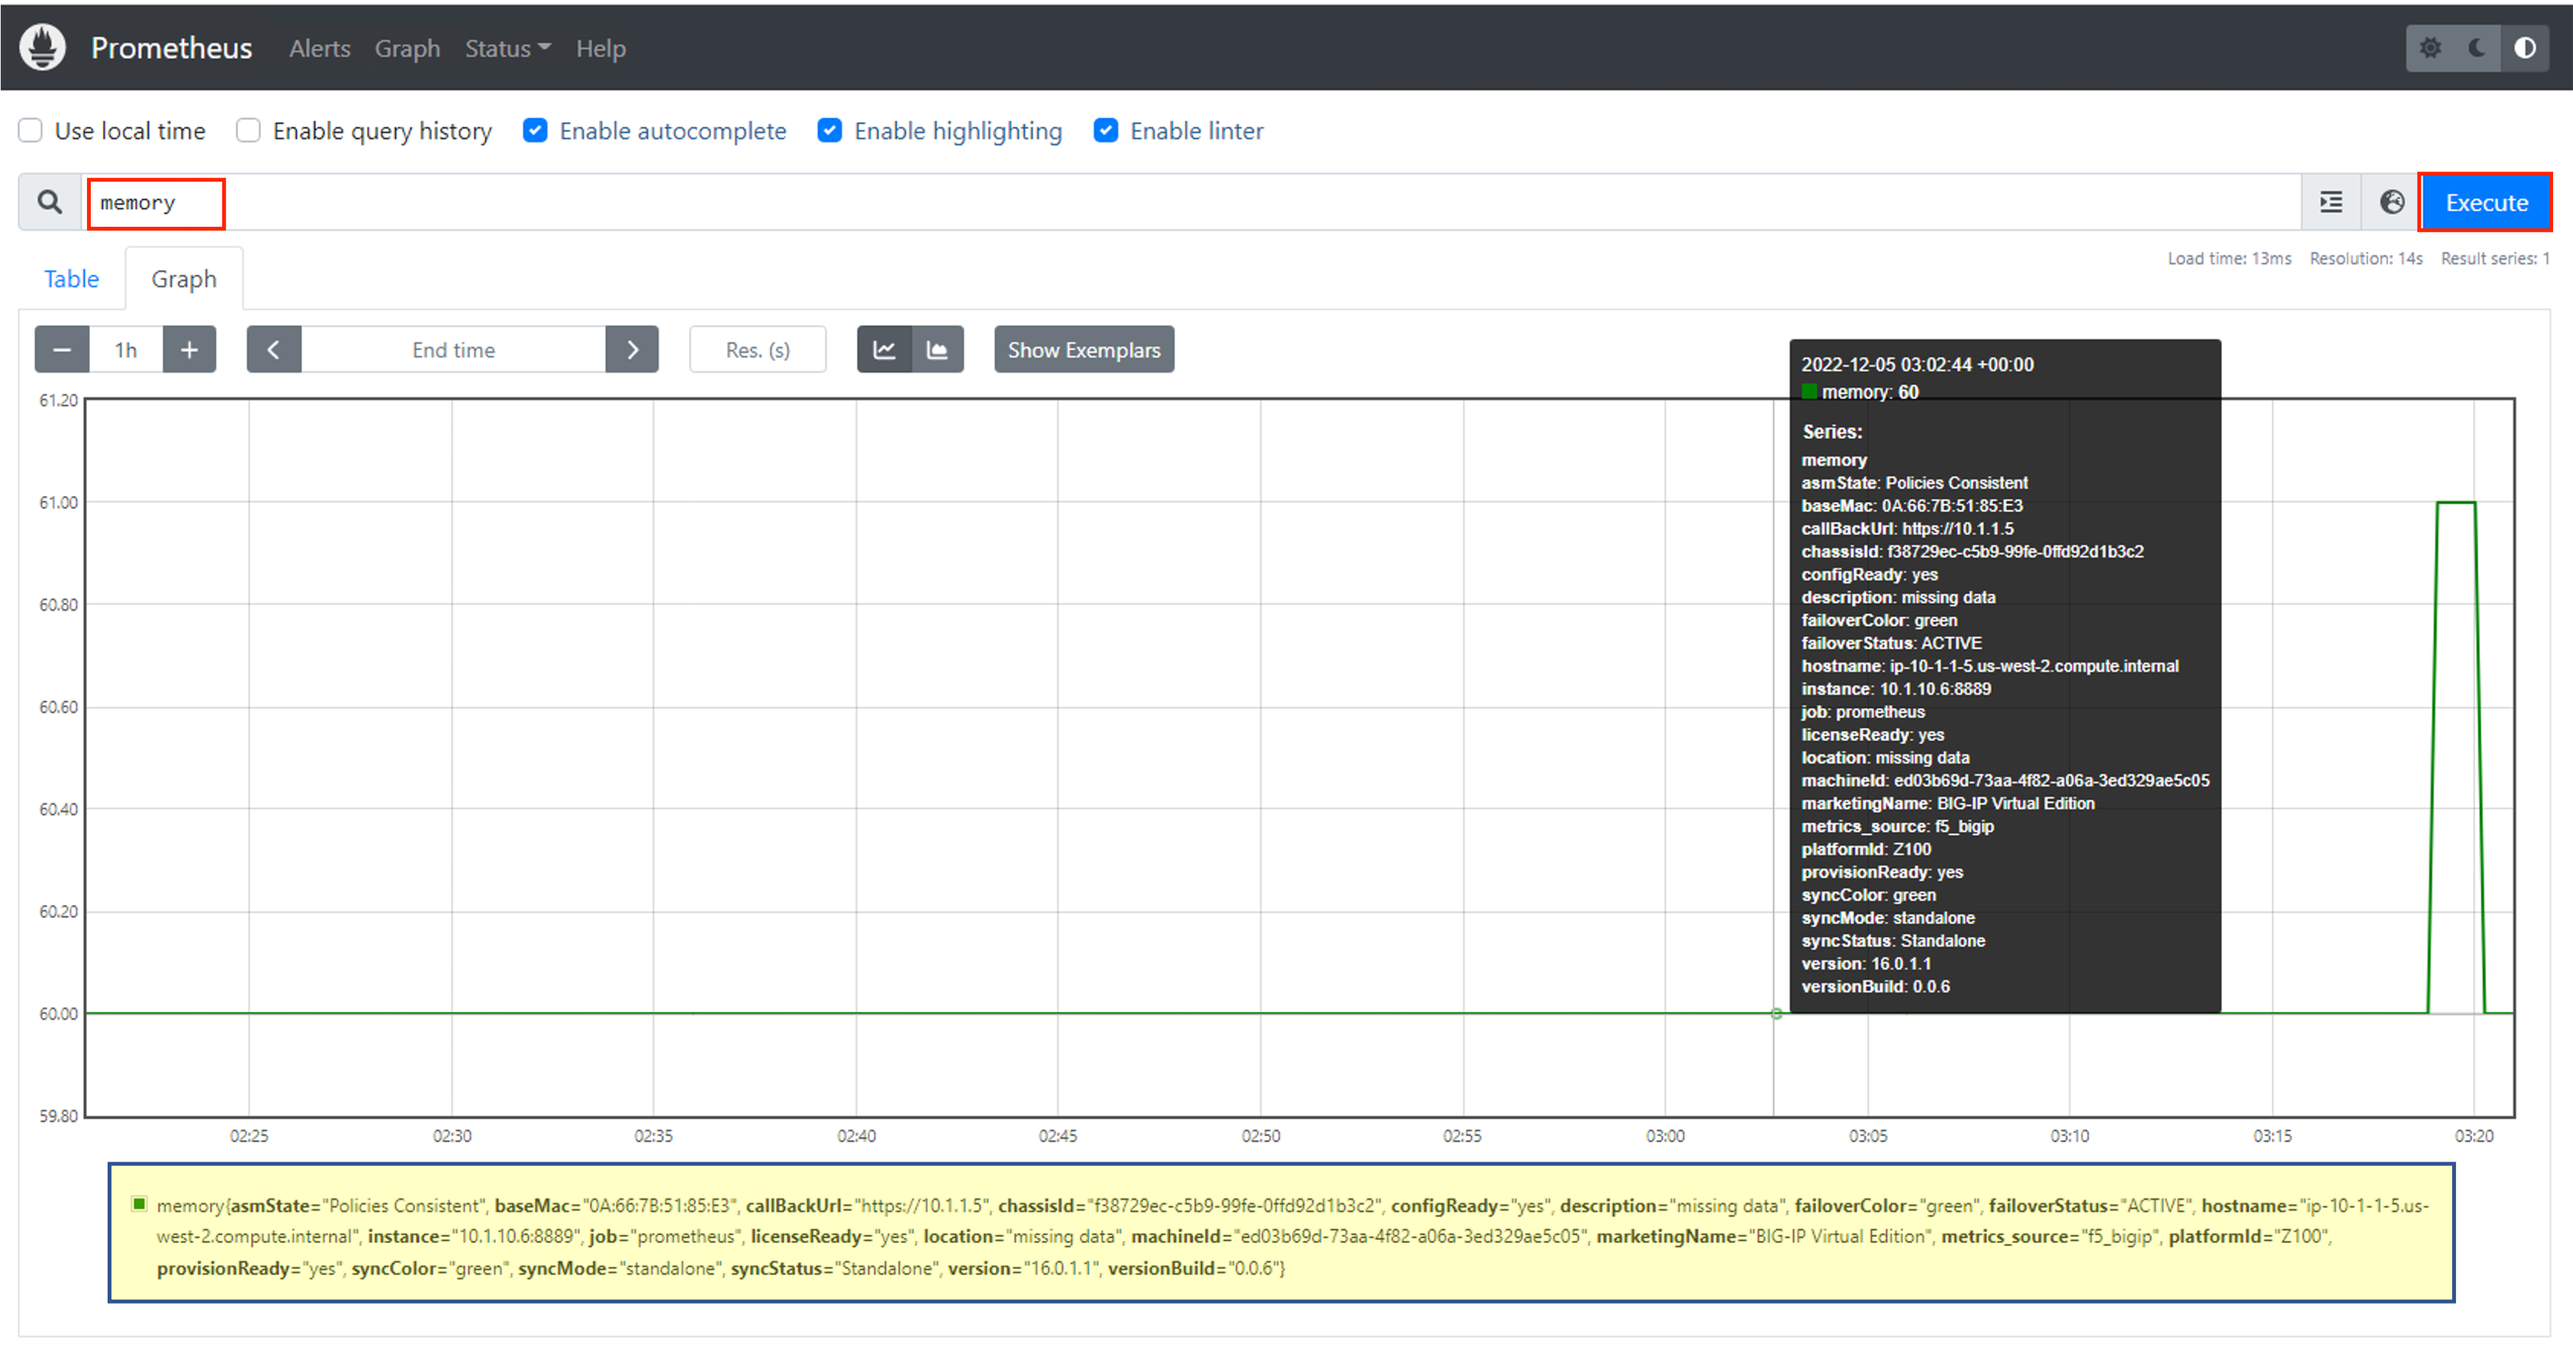
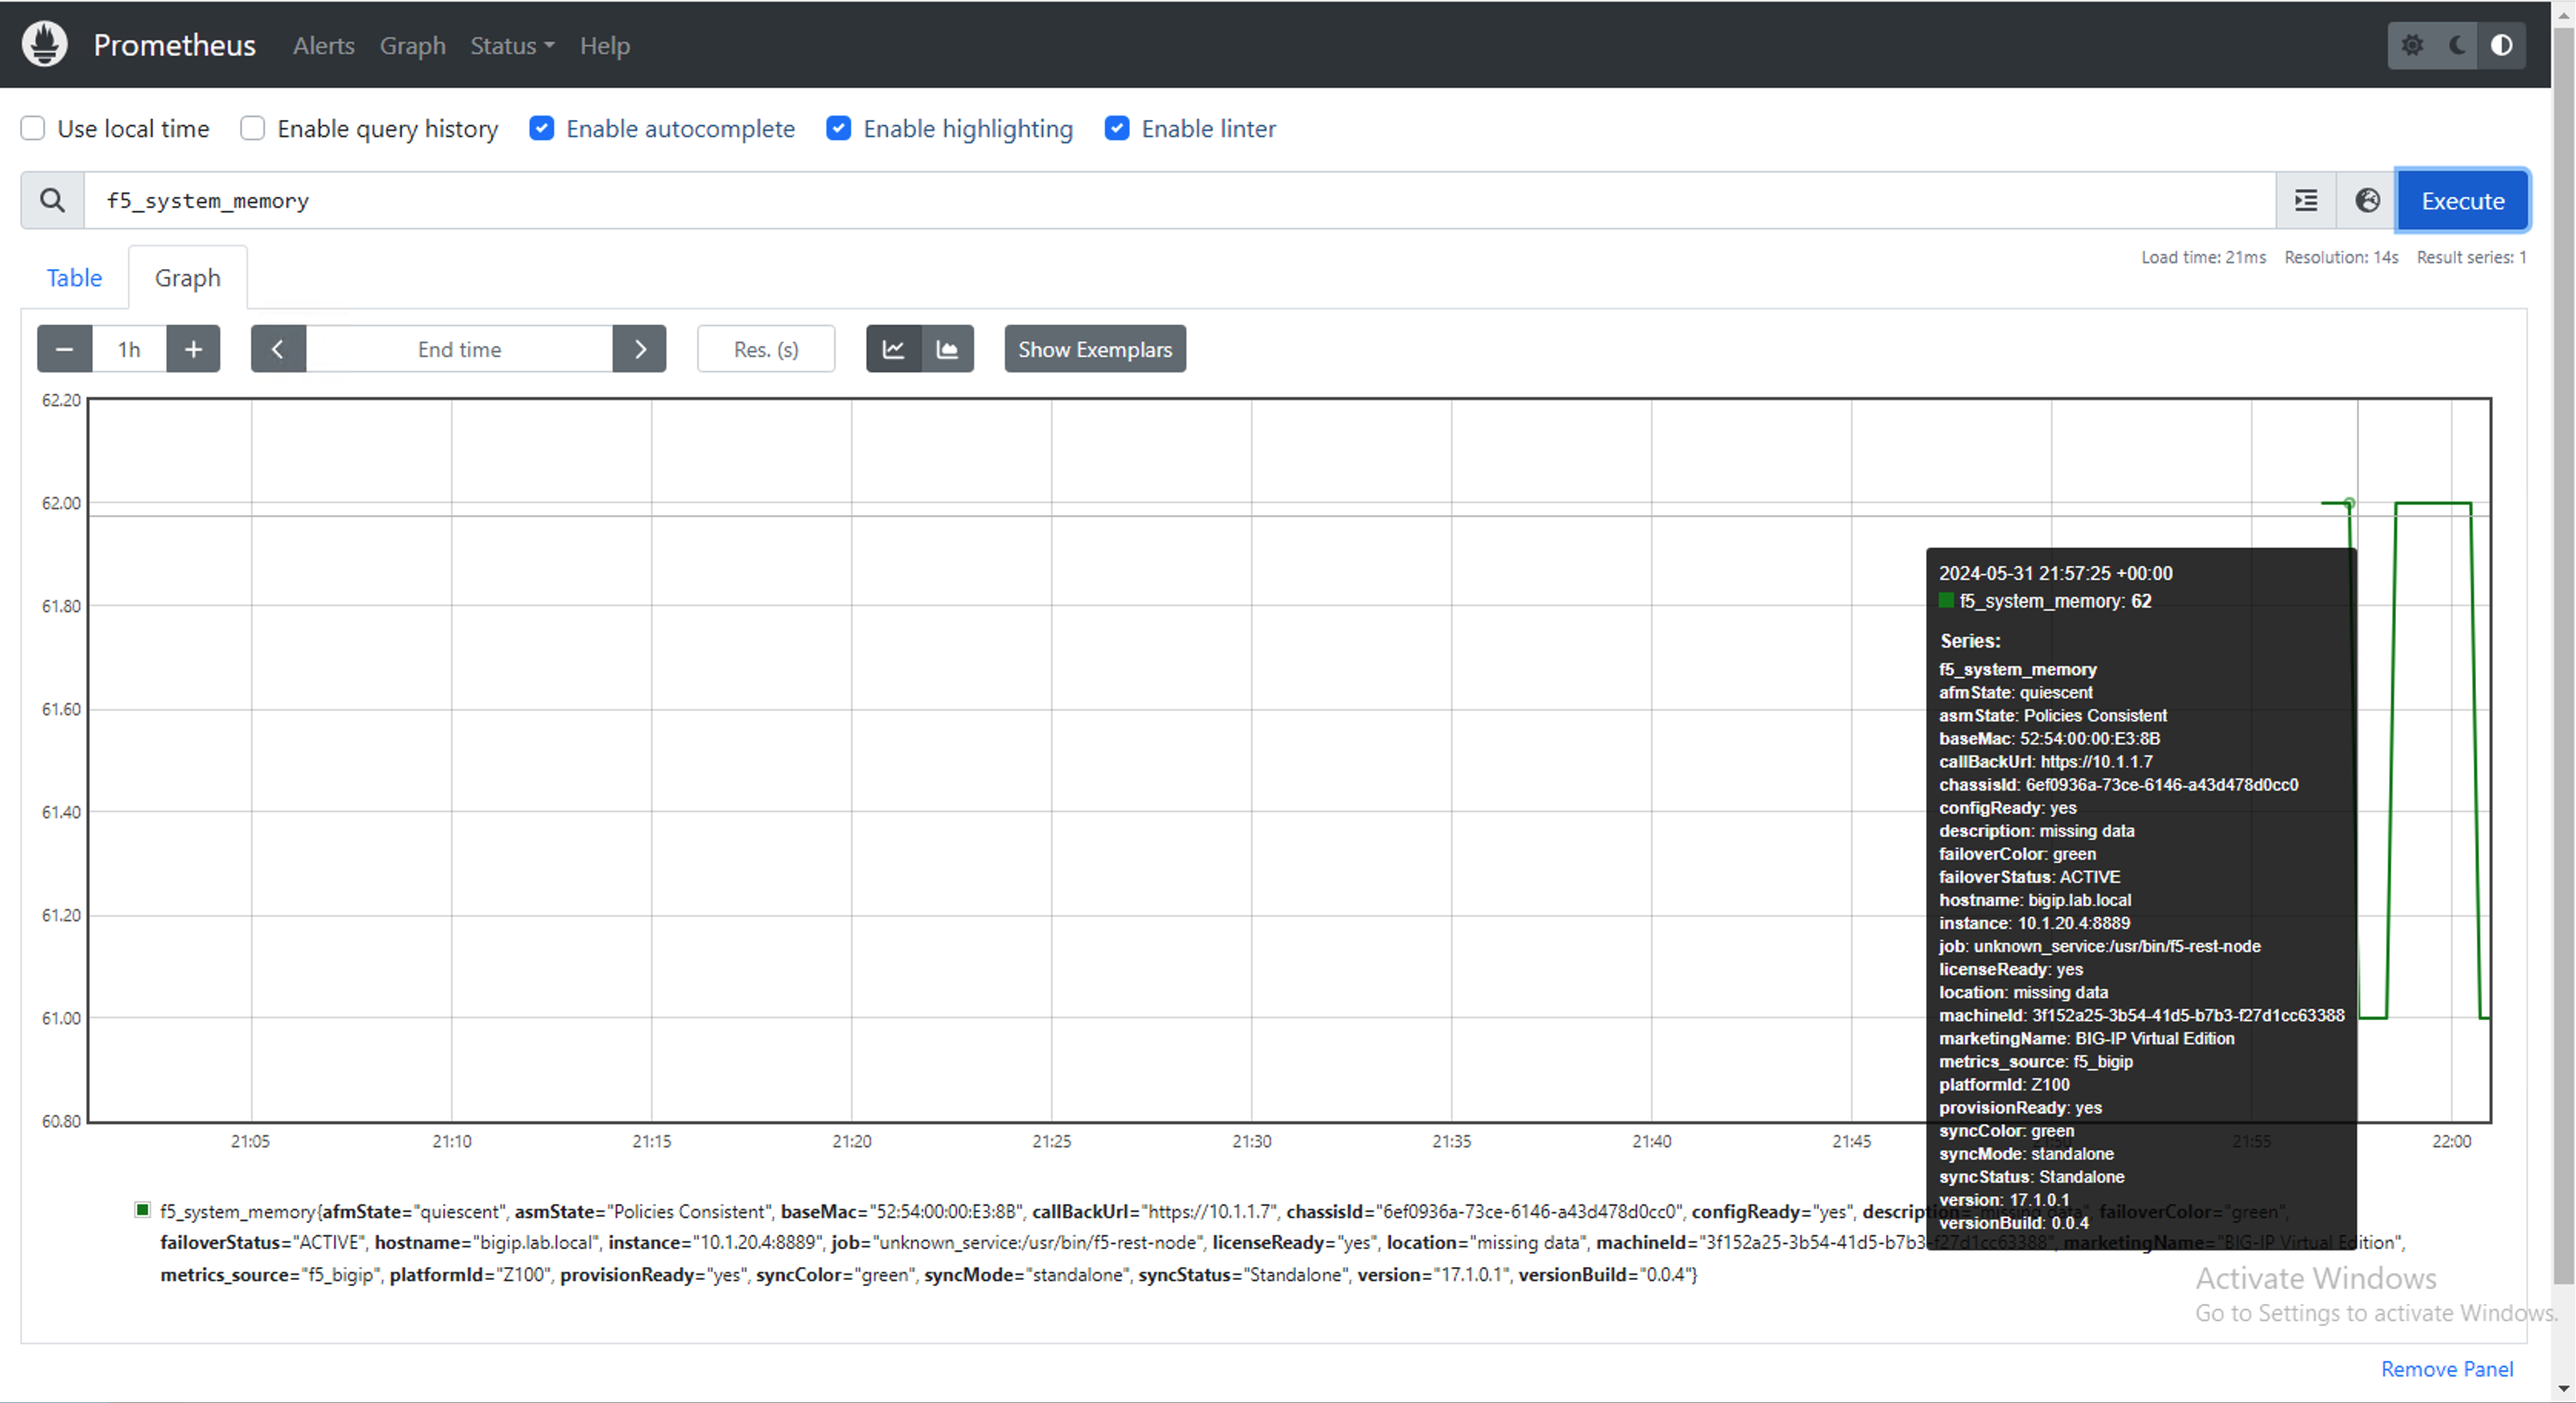
update

diff --git a/docs/ex2.md b/docs/ex2.md
@@ -34,7 +34,7 @@ You will now configure the lab BIG-IP with the necessary resources to send metri
 
 Review the provided AS3 declaration. The declaration will deploy remote logging resources, (publishers, virtual, profiles, etc.) required for remote logging capture and transmission. From the VS Code UI open a new terminal tab and use the following curl command to post the declaration.
 
-*curl -u admin:F5labnet! -k -X POST "https://10.1.1.7/mgmt/shared/appsvcs/declare" -H "Content-Type:application/json" -d @./ts_declaration.json*
+*curl -u admin:F5labnet! -k -X POST "https://10.1.1.7/mgmt/shared/appsvcs/declare" -H "Content-Type:application/json" -d @./as3_declaration.json*
 
 <img src="../images/Picture20.png">
 
@@ -48,11 +48,11 @@ Review the provided TS declaration.  The declaration configures the telemetry st
 
 #### Verify data delivery
 
-The BIG-IP is now configured to send telemetry.  If not currently opened, open Google Chrome from the desktop and select the  Prometheus tab.  If the tab is no longer visible, the Prometheus UI is located at http://10.1.1.6:9090.
+The BIG-IP is now configured to send telemetry.  If not currently opened, open Google Chrome from the desktop and select the  Prometheus tab.  If the tab is no longer visible, the Prometheus UI is located at http://10.1.20.4:9090.
 
 <img src="../images/Picture24.png">
 
-To perform a quick test on the system, select the *Graph* tab and enter 'memory' in the search bar; click on 'Execute'.  
+To perform a quick test on the system, select the *Graph* tab and enter 'f5-system_memory' in the search bar; click on 'Execute'.  
 
 The system will query metrics for the BIG-IP system memory metric and return a relevant time chart, (*see below*).
 
